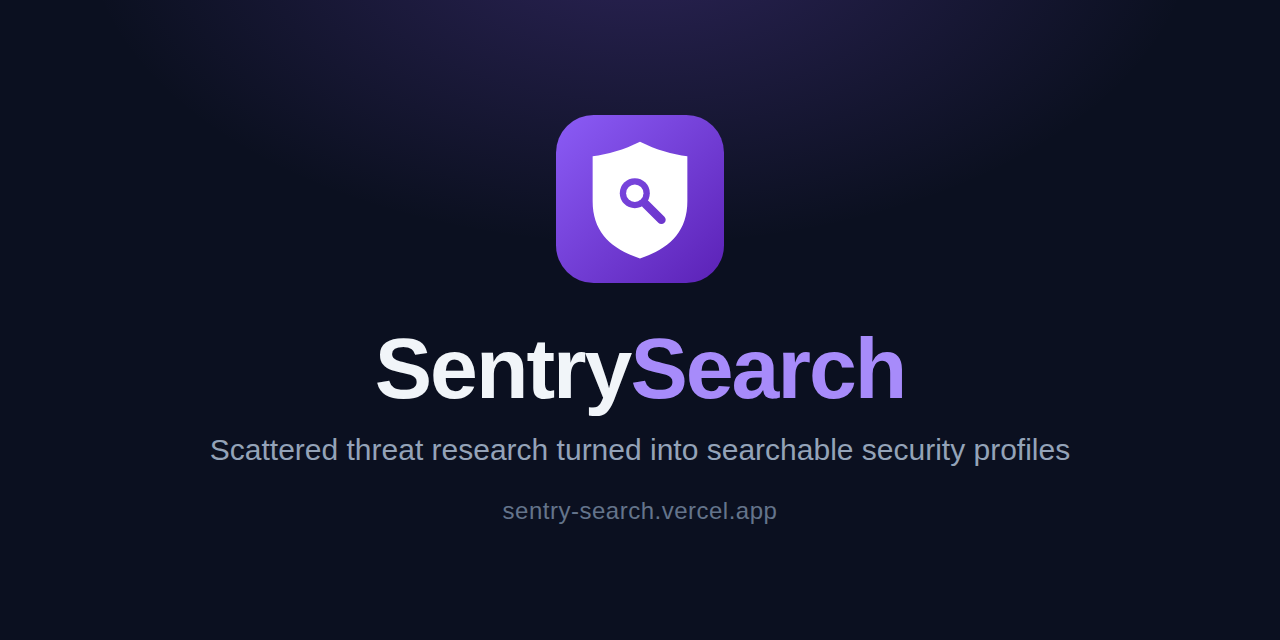
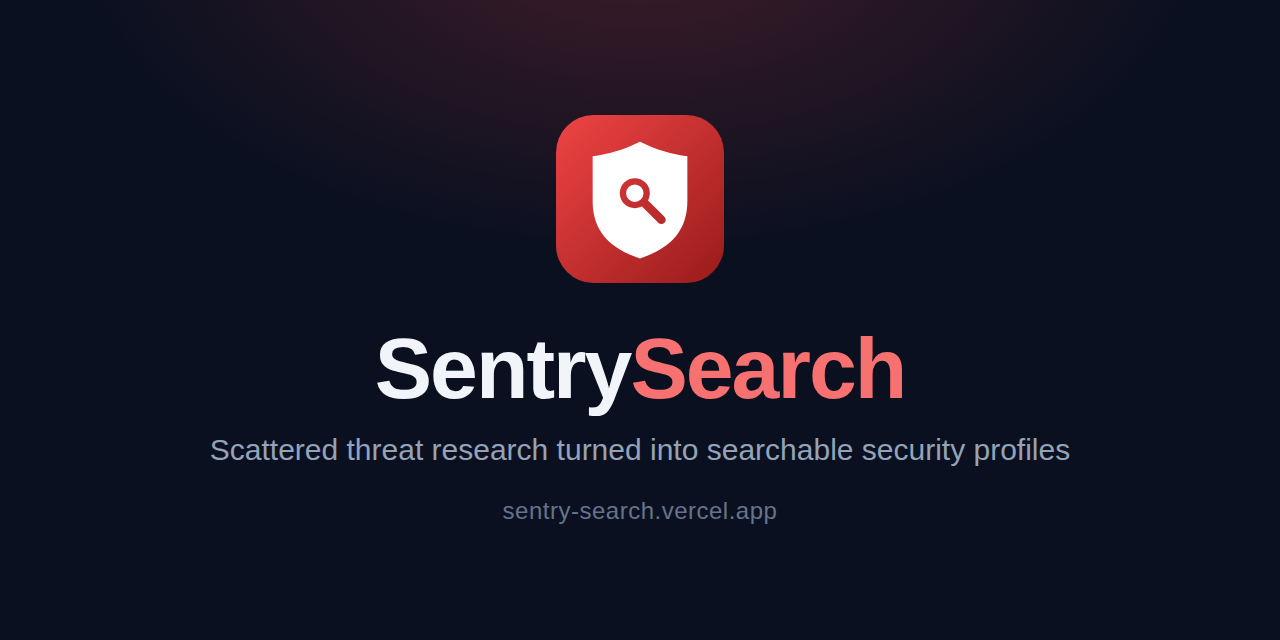
Adopt shared sentinel-shield mark across the suite (#130)
* Adopt shared sentinel-shield mark across the suite

Move SentrySearch onto the shared family system: one constant red
shield silhouette, one glyph per product. SentrySearch keeps the
magnifier, restated in the family red in place of the violet.

- docs/assets/icon-small.svg: new optically corrected master for
  <=48px exports. The lens ring and handle collapse into each other
  when rasterised at favicon size, so the small variant thickens the
  ring band and handle and holds the lens counter open. favicon.ico is
  built from this variant; larger surfaces still use the master.
- Next.js app icons refreshed under src/app/ (favicon.ico, icon.svg,
  apple-icon.png) and the social card in public/
- Lockups and social card regenerated in the family red

* fix: use shared mark in navigation

Changed region(s): [[0.3125, 0.0, 0.6875, 0.125], [0.4375, 0.1562, 0.5625, 0.4688], [0.5, 0.5312, 0.7188, 0.625]]

diff --git a/frontend/src/components/layout/Navigation.tsx b/frontend/src/components/layout/Navigation.tsx
@@ -5,11 +5,11 @@
 'use client';
 
 import React, { useState } from 'react';
+import Image from 'next/image';
 import Link from 'next/link';
 import { usePathname } from 'next/navigation';
 import { useAuth } from '@/contexts/AuthContext';
 import {
-  MagnifyingGlassIcon,
   DocumentTextIcon,
   ChartBarIcon,
   PlusIcon,
@@ -54,9 +54,13 @@ export function Navigation() {
             {/* Logo */}
             <div className="flex flex-shrink-0 items-center">
               <Link href={homeHref} className="flex items-center space-x-2">
-                <div className="flex h-8 w-8 items-center justify-center rounded-lg bg-blue-600">
-                  <MagnifyingGlassIcon className="h-5 w-5 text-white" />
-                </div>
+                <Image
+                  src="/icon.svg"
+                  alt=""
+                  width={32}
+                  height={32}
+                  priority
+                />
                 <span className="text-lg font-semibold tracking-tight text-zinc-950">
                   SentrySearch
                 </span>
